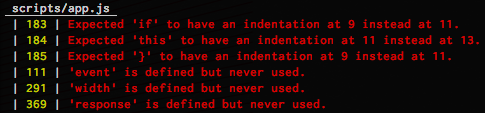
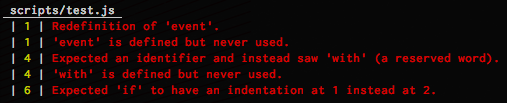
Sort errors by line

diff --git a/reporter.js b/reporter.js
@@ -33,9 +33,16 @@ module.exports = {
       checkMaxLengths(error.error);
     });
 
+    var sorter = function(a, b) {
+      return a.line - b.line;
+    };
+
     var log = [];
     for (var k in files) {
       log.push('\n' + chalk.underline.bold(' ' + k + ' ') + '\n');
+
+      files[k].sort(sorter);
+
       files[k].forEach(function(error) {
         for (var k in format) {
           log.push(' | ');
